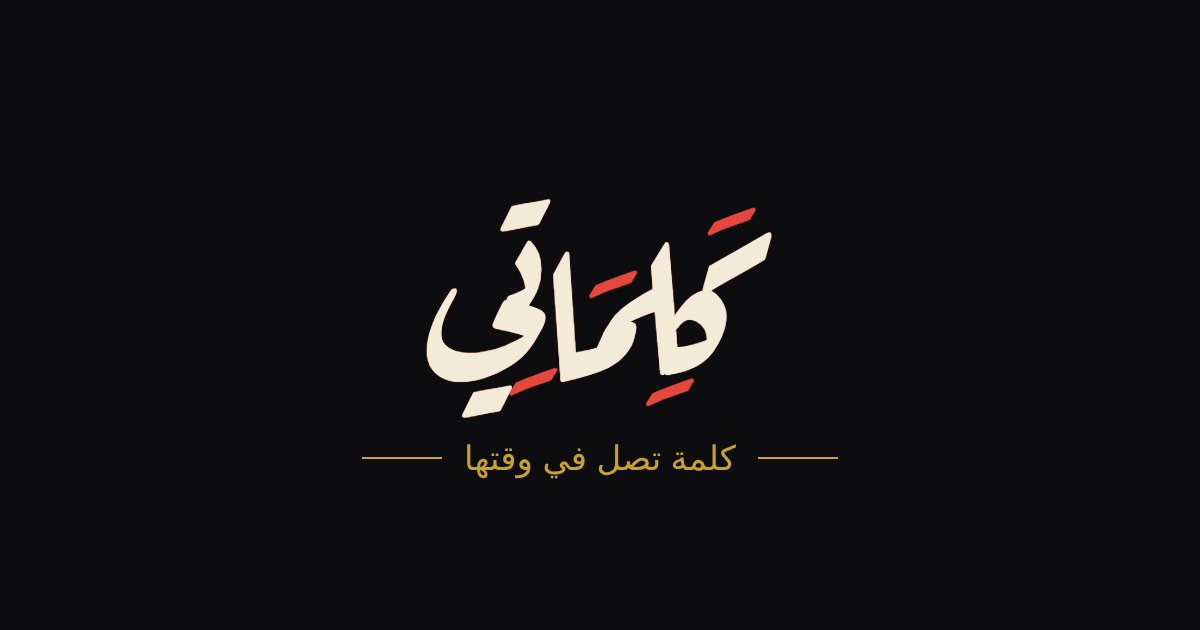
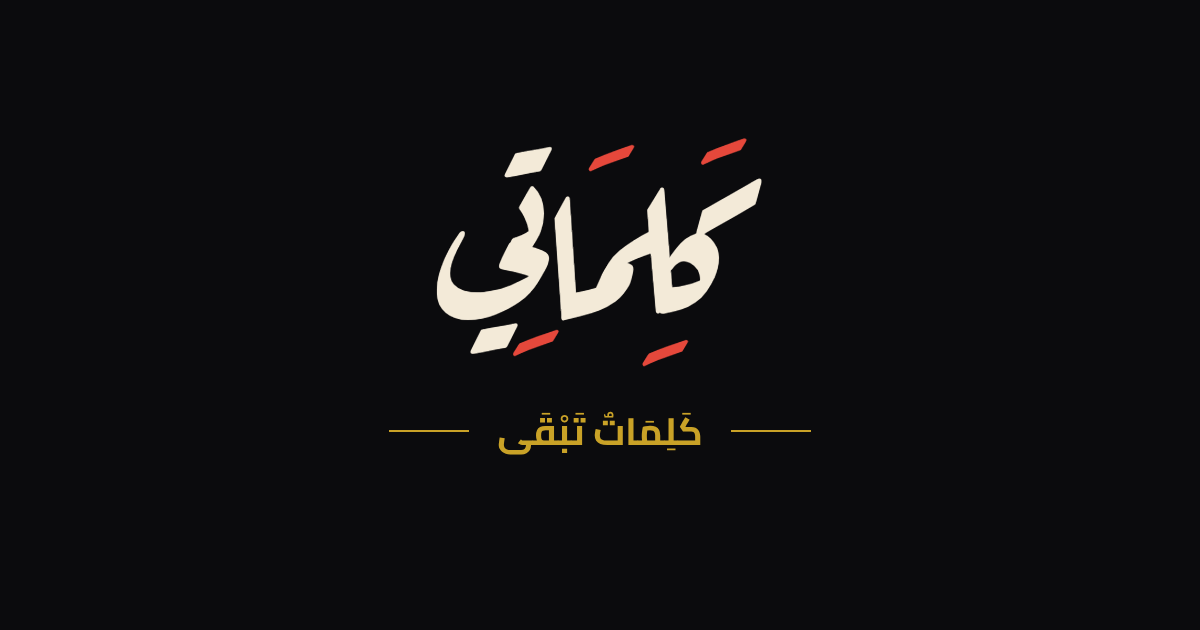
الشعار الجديد: «كلماتي — كلماتٌ تبقى» بدل «كلمة تصل في وقتها» في الواجهة والعناوين وبطاقة المشاركة وبيانات التطبيق وصورة المعاينة
Claude-Session: https://claude.ai/code/session_01H8gZ73SjdRnMqgj2f8qsQ4

diff --git a/index.html b/index.html
@@ -3,7 +3,7 @@
   <head>
     <meta charset="UTF-8" />
     <meta name="viewport" content="width=device-width, initial-scale=1.0, maximum-scale=5.0, viewport-fit=cover" />
-    <title>كلماتي — كلمة تصل في وقتها | خواطر وأقوال عربية وجزائرية</title>
+    <title>كلماتي — كلماتٌ تبقى | خواطر وأقوال عربية وجزائرية</title>
     <meta name="description" content="منصة لخواطر أصلية بالفصحى وأمثال شعبية معروفة من اللهجات العربية، تجمع بين جمال الكتابة والخط والزخرفة مع بطاقات مشاركة ولحظة سكون." />
     
     <!-- PWA & Mobile Web App Meta -->
@@ -21,11 +21,11 @@
     <!-- OpenGraph & Social Cards -->
     <meta property="og:type" content="website" />
     <meta property="og:site_name" content="كلماتي" />
-    <meta property="og:title" content="كلماتي — كلمة تصل في وقتها" />
+    <meta property="og:title" content="كلماتي — كلماتٌ تبقى" />
     <meta property="og:description" content="أقوال وخواطر أصلية بالفصحى والدارجة الجزائرية، في تصميم أنيق وبطاقات للمشاركة والتأمّل." />
     <meta property="og:image" content="/og.png" />
     <meta name="twitter:card" content="summary_large_image" />
-    <meta name="twitter:title" content="كلماتي — كلمة تصل في وقتها" />
+    <meta name="twitter:title" content="كلماتي — كلماتٌ تبقى" />
     <meta name="twitter:description" content="أقوال وخواطر أصلية بالفصحى والدارجة الجزائرية، في تصميم أنيق وبطاقات للمشاركة والتأمّل." />
     <meta name="twitter:image" content="/og.png" />
     

diff --git a/src/components/CardShareModal.tsx b/src/components/CardShareModal.tsx
@@ -170,7 +170,7 @@ export const CardShareModal: React.FC<CardShareModalProps> = ({ quote, onClose }
 
     ctx.font = '500 20px "Cairo", sans-serif';
     ctx.fillStyle = subtleColor;
-    ctx.fillText('«كَلِمَةٌ تَصِلُ فِي وَقْتِهَا»', config.width / 2, margin + 140);
+    ctx.fillText('«كَلِمَاتٌ تَبْقَى»', config.width / 2, margin + 140);
 
     // Divider
     ctx.strokeStyle = borderColor;
@@ -375,13 +375,13 @@ export const CardShareModal: React.FC<CardShareModalProps> = ({ quote, onClose }
           try {
             if (navigator.canShare && navigator.canShare({ files: [file] })) {
               await navigator.share({
-                title: 'كلماتي — كلمة تصل في وقتها',
+                title: 'كلماتي — كلماتٌ تبقى',
                 text: `${stripTashkeel(quote.text)}${pickDialect(quote, preferredDialect) ? '\n' + stripTashkeel(pickDialect(quote, preferredDialect)!.variant.text) : ''}${bylineSuffix(quote)}\n\nمنصة كلماتي: ${quoteUrl(quote)}`,
                 files: [file],
               });
             } else {
               await navigator.share({
-                title: 'كلماتي — كلمة تصل في وقتها',
+                title: 'كلماتي — كلماتٌ تبقى',
                 text: `${stripTashkeel(quote.text)}${bylineSuffix(quote)}`,
                 url: quoteUrl(quote),
               });

diff --git a/src/views/AboutView.tsx b/src/views/AboutView.tsx
@@ -23,7 +23,7 @@ export const AboutView: React.FC = () => {
           عَنْ مَنَصَّةِ «كَلِمَاتِي»
         </h1>
         <p className="text-base text-amber-400 font-cairo">
-          «كَلِمَةٌ تَصِلُ فِي وَقْتِهَا»
+          «كَلِمَاتٌ تَبْقَى»
         </p>
         <p className="text-xs sm:text-sm text-stone-400 max-w-xl mx-auto leading-relaxed">
           فضاء أدبي أصيل مكرّس لجمال الكلمة المكتوبة باللغة العربية الفصحى والدارجة الجزائرية، في ثوب بصري يحتفي بالخط والزخرفة والسكينة.

diff --git a/src/components/ZenMode.tsx b/src/components/ZenMode.tsx
@@ -191,7 +191,7 @@ export const ZenMode: React.FC<ZenModeProps> = ({ isOpen, onClose, previewQuote 
       <div className="w-full max-w-4xl flex items-center justify-between text-xs text-stone-400 font-cairo z-10">
         <div className="flex items-center gap-1.5 text-stone-400 font-cairo">
           <Sparkles className="w-3.5 h-3.5 text-amber-500/60" />
-          <span>كَلِمَاتِي — كَلِمَةٌ تَصِلُ فِي وَقْتِهَا</span>
+          <span>كَلِمَاتِي — كَلِمَاتٌ تَبْقَى</span>
         </div>
 
         <div className="flex items-center gap-1 text-stone-400 font-cairo">

diff --git a/src/views/TodayView.tsx b/src/views/TodayView.tsx
@@ -81,7 +81,7 @@ export const TodayView: React.FC = () => {
             </span>
           </div>
           <h1 className="text-2xl sm:text-3xl md:text-4xl font-bold font-cairo text-white tracking-wide pt-2 pb-1 leading-snug">
-            كَلِمَةٌ تَصِلُ فِي وَقْتِهَا
+            كَلِمَاتٌ تَبْقَى
           </h1>
           <p className="text-xs sm:text-sm text-stone-400 font-cairo">
             خاطرة يومية من صميم الوجدان، تجمع بين بلاغة الفصحى ودفء الدارجة الجزائرية.

diff --git a/vite.config.ts b/vite.config.ts
@@ -16,7 +16,7 @@ export default defineConfig(() => {
         includeAssets: ['favicon.ico', 'favicon-64.png', 'apple-touch-icon.png', 'og.png'],
         manifest: {
           id: '/',
-          name: 'كلماتي — كلمة تصل في وقتها',
+          name: 'كلماتي — كلماتٌ تبقى',
           short_name: 'كلماتي',
           description: 'منصة لنشر أقوال وخواطر أصلية بالفصحى والدارجة الجزائرية مع تخصيص فني وبطاقات مشاركة.',
           theme_color: '#0d0d0f',

diff --git a/src/components/LogoIntro.tsx b/src/components/LogoIntro.tsx
@@ -160,7 +160,7 @@ export const LogoIntro: React.FC = () => {
                 transition={{ duration: T_SHRINK + 0.2, times: [0, 0.45, 0.85, 1], delay: 0.3 }}
               >
                 <span className="w-10 h-px bg-[#c9a227]/70" />
-                <span className="text-sm font-cairo font-medium">كلمة تصل في وقتها</span>
+                <span className="text-sm font-cairo font-medium">كلماتٌ تبقى</span>
                 <span className="w-10 h-px bg-[#c9a227]/70" />
               </motion.div>
             </div>

diff --git a/src/components/Footer.tsx b/src/components/Footer.tsx
@@ -18,7 +18,7 @@ export const Footer: React.FC = () => {
             </div>
             <div>
               <div className="logo-ink text-[19px] leading-none mb-1"><InkText text="كَلِمَاتِي" /></div>
-              <div className="text-[10px] text-amber-500/80 font-cairo">كَلِمَةٌ تَصِلُ فِي وَقْتِهَا</div>
+              <div className="text-[10px] text-amber-500/80 font-cairo">كَلِمَاتٌ تَبْقَى</div>
             </div>
           </div>
 

diff --git a/src/components/HeaderLogo.tsx b/src/components/HeaderLogo.tsx
@@ -162,7 +162,7 @@ export const HeaderLogo: React.FC<{ showTagline?: boolean }> = ({ showTagline = 
         </div>
         {showTagline && (
           <div className="text-[11px] text-amber-500/90 font-medium tracking-normal mt-1 hidden sm:block">
-            كَلِمَةٌ تَصِلُ فِي وَقْتِهَا
+            كَلِمَاتٌ تَبْقَى
           </div>
         )}
       </div>

diff --git a/src/context/KalimatiContext.tsx b/src/context/KalimatiContext.tsx
@@ -35,7 +35,7 @@ const TAB_PATHS: Record<Exclude<ActiveTab, 'quote-detail'>, string> = {
 };
 
 const TAB_TITLES: Record<ActiveTab, string> = {
-  today: 'كلماتي — كلمة تصل في وقتها',
+  today: 'كلماتي — كلماتٌ تبقى',
   library: 'المكتبة — كلماتي',
   saved: 'محفوظاتي — كلماتي',
   customize: 'التخصيص — كلماتي',

diff --git a/README.md b/README.md
@@ -1,4 +1,4 @@
-# كلماتي — كلمة تصل في وقتها
+# كلماتي — كلماتٌ تبقى
 
 منصة أدبية لأقوال وخواطر أصلية بالفصحى والدارجة الجزائرية: كلمة اليوم، مكتبة، محفوظات شخصية مع ملاحظات، بطاقات مشاركة، لحظة سكون، وتطبيق ويب يعمل دون اتصال (PWA).
 
